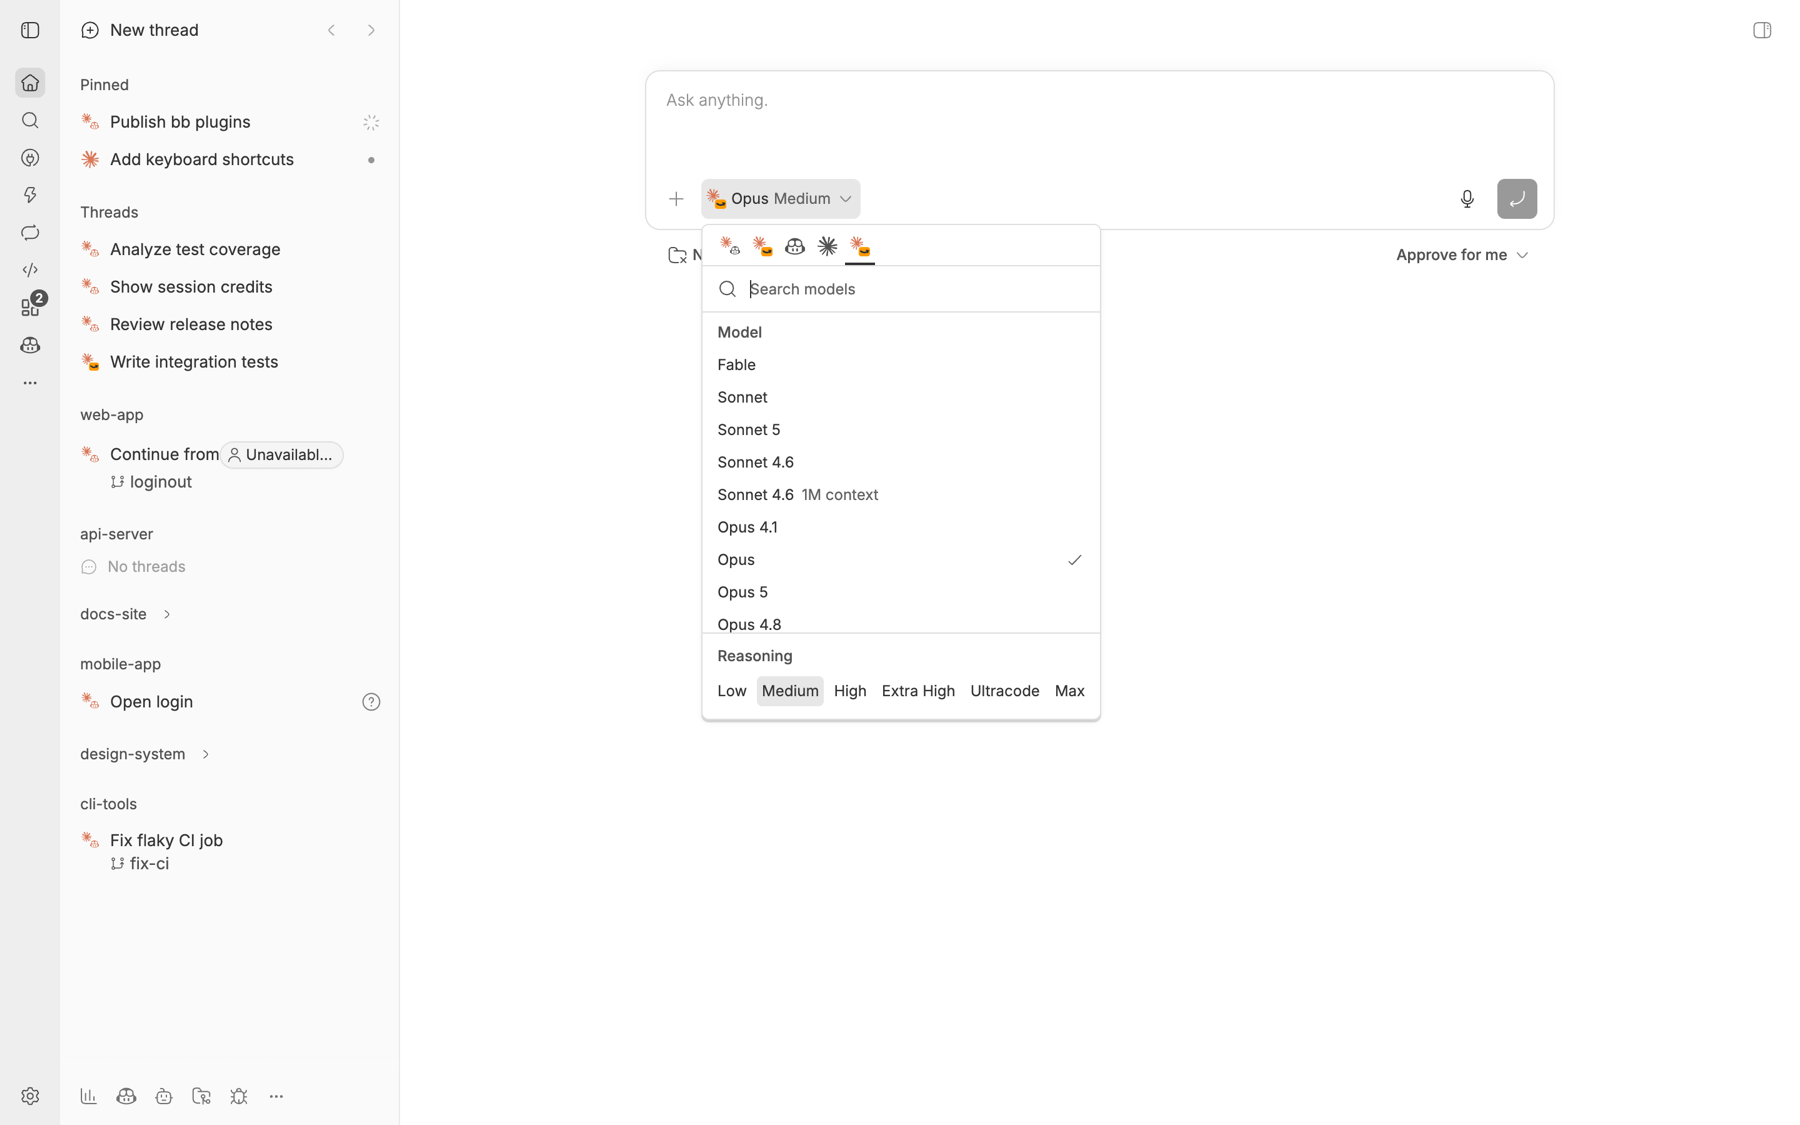
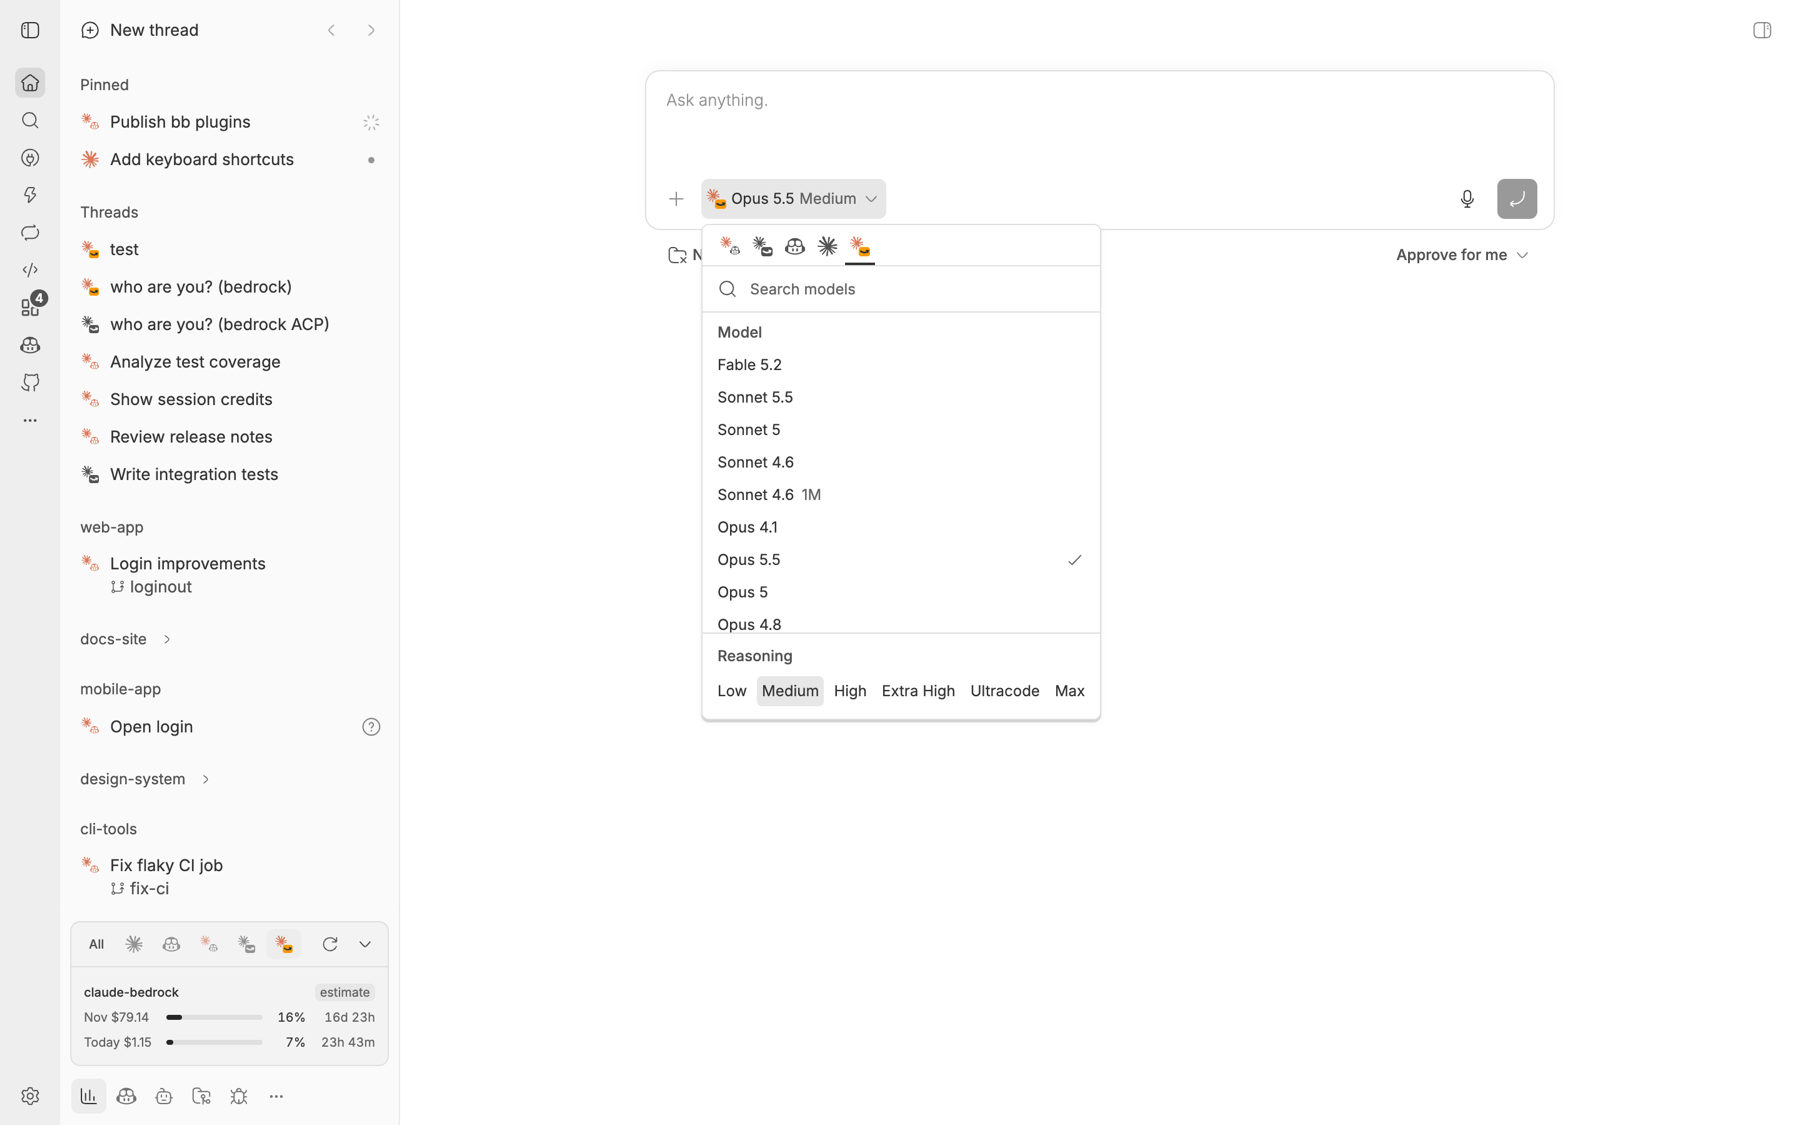
Name Bedrock models like Anthropic API ones (Sonnet 5.5, not Sonnet)
Upstream derives display names from ids such as claude-sonnet-5-5 only and
falls back to Claude Code's label for Bedrock ids, e.g. Sonnet or Fable.
src/model-names.ts parses Bedrock ids (region prefix, anthropic., date and
-vN:N suffixes, [1m]) in upstream's naming style, and the bridge renames
the models in its responses to model/list requests. README screenshot
updated, now with the usage entry.

diff --git a/host.ts b/host.ts
@@ -9,9 +9,31 @@
 // models (or whatever a machine-wide BB_CLAUDE_CODE_EXECUTABLE wrapper
 // configures). This bridge process serves only this provider, so it applies
 // the request's envVars to its own environment before upstream handles it.
+//
+// Upstream names models from Anthropic API ids only; for Bedrock ids it falls
+// back to labels like "Sonnet". The bridge renames them in its model/list
+// responses (src/model-names.ts).
 import { experimental_providerBridge as upstreamBridge } from "./vendor/provider-claude-code/src/host";
+import { nameBedrockModels } from "./src/model-names";
 
 export { default } from "./vendor/provider-claude-code/src/host";
+
+/** Ids of model/list requests whose responses are still to be written. */
+const pendingModelLists = new Set<string | number>();
+
+/** A response line to a pending model/list request, with Bedrock model names; other lines unchanged. */
+export function renameModelListResponse(line: string, pending: Set<string | number>): string {
+  if (pending.size === 0 || !line.startsWith("{") || !line.includes('"result"')) return line;
+  try {
+    const message = JSON.parse(line) as { id?: unknown; result?: unknown };
+    const id = message.id;
+    if ((typeof id !== "string" && typeof id !== "number") || !pending.has(id) || message.result === undefined) return line;
+    pending.delete(id);
+    return `${JSON.stringify({ ...message, result: nameBedrockModels(message.result) })}${line.endsWith("\n") ? "\n" : ""}`;
+  } catch {
+    return line;
+  }
+}
 
 /** The envVars of a model/list request line, or null. */
 export function modelListEnvVars(line: string): Record<string, string> | null {
@@ -33,11 +55,23 @@ export const experimental_providerBridge: typeof upstreamBridge = {
   start: (context) => {
     // Bedrock even before the first request carries the contributed env
     process.env.CLAUDE_CODE_USE_BEDROCK = "1";
+    // upstream writes each JSON-RPC message as one line through process.stdout.write
+    const write = process.stdout.write.bind(process.stdout) as (chunk: unknown, ...rest: unknown[]) => boolean;
+    process.stdout.write = ((chunk: unknown, ...rest: unknown[]) =>
+      write(typeof chunk === "string" ? renameModelListResponse(chunk, pendingModelLists) : chunk, ...rest)) as typeof process.stdout.write;
     upstreamBridge.start?.(context);
   },
   handleLine: (line) => {
     const envVars = modelListEnvVars(line);
-    if (envVars !== null) Object.assign(process.env, envVars);
+    if (envVars !== null) {
+      Object.assign(process.env, envVars);
+      try {
+        const id = (JSON.parse(line) as { id?: unknown }).id;
+        if (typeof id === "string" || typeof id === "number") pendingModelLists.add(id);
+      } catch {
+        // modelListEnvVars parsed it already
+      }
+    }
     upstreamBridge.handleLine(line);
   },
 };

diff --git a/src/model-names.ts b/src/model-names.ts
@@ -1,0 +1,34 @@
+// Display names for Bedrock model ids. Upstream names models from ids such as
+// "claude-sonnet-5-5" and otherwise falls back to Claude Code's own label,
+// which for Bedrock ids ("us.anthropic.claude-sonnet-5-5",
+// "us.anthropic.claude-haiku-4-5-20251001-v1:0") is often just "Sonnet" or
+// "Opus". This parses the Bedrock form and uses upstream's naming style
+// ("Sonnet 5.5", "Opus 4.6 (1M)").
+
+const BEDROCK_MODEL_ID =
+  /^(?:[a-z]+\.)?anthropic\.claude-([a-z]+)-(\d+)(?:-(\d{1,2}))?(?:-\d{8})?(?:-v\d+(?::\d+)?)?(\[1m\])?$/;
+
+export function bedrockModelDisplayName(model: string): string | null {
+  const match = BEDROCK_MODEL_ID.exec(model);
+  if (!match) return null;
+  const [, family = "", major, minor, oneMillionContext] = match;
+  const name = `${family.charAt(0).toUpperCase()}${family.slice(1)}`;
+  const version = minor === undefined ? major : `${major}.${minor}`;
+  return `${name} ${version}${oneMillionContext ? " (1M)" : ""}`;
+}
+
+type ListedModel = { model?: unknown; displayName?: unknown };
+
+/** A model/list result with Bedrock ids named; other entries unchanged. */
+export function nameBedrockModels<T>(result: T): T {
+  if (result === null || typeof result !== "object") return result;
+  const rename = (models: unknown) =>
+    Array.isArray(models)
+      ? models.map((entry: ListedModel) => {
+          const name = typeof entry?.model === "string" ? bedrockModelDisplayName(entry.model) : null;
+          return name === null ? entry : { ...entry, displayName: name };
+        })
+      : models;
+  const record = result as Record<string, unknown>;
+  return { ...record, models: rename(record.models), selectedOnlyModels: rename(record.selectedOnlyModels) } as T;
+}

diff --git a/test/model-names.test.ts b/test/model-names.test.ts
@@ -1,0 +1,36 @@
+import { describe, expect, it } from "vitest";
+import { bedrockModelDisplayName, nameBedrockModels } from "../src/model-names";
+
+describe("bedrockModelDisplayName", () => {
+  it.each([
+    ["us.anthropic.claude-fable-5-2", "Fable 5.2"],
+    ["us.anthropic.claude-sonnet-5-5", "Sonnet 5.5"],
+    ["us.anthropic.claude-sonnet-5", "Sonnet 5"],
+    ["us.anthropic.claude-sonnet-4-6[1m]", "Sonnet 4.6 (1M)"],
+    ["us.anthropic.claude-opus-4-1-20250805-v1:0", "Opus 4.1"],
+    ["us.anthropic.claude-opus-4-6-v1[1m]", "Opus 4.6 (1M)"],
+    ["us.anthropic.claude-haiku-4-5-20251001-v1:0", "Haiku 4.5"],
+    ["eu.anthropic.claude-opus-5-5", "Opus 5.5"],
+    ["global.anthropic.claude-sonnet-5-5", "Sonnet 5.5"],
+    ["anthropic.claude-opus-5-5", "Opus 5.5"],
+  ])("%s -> %s", (id, name) => {
+    expect(bedrockModelDisplayName(id)).toBe(name);
+  });
+
+  it("leaves other ids alone", () => {
+    expect(bedrockModelDisplayName("opus")).toBeNull();
+    expect(bedrockModelDisplayName("claude-opus-5-5")).toBeNull();
+    expect(bedrockModelDisplayName("arn:aws:bedrock:us-west-2:123:application-inference-profile/x")).toBeNull();
+  });
+
+  it("renames models and selected-only models in a model/list result", () => {
+    const result = {
+      models: [{ model: "us.anthropic.claude-sonnet-5-5", displayName: "Sonnet", isDefault: true }],
+      selectedOnlyModels: [{ model: "opus", displayName: "Opus alias" }],
+    };
+    expect(nameBedrockModels(result)).toEqual({
+      models: [{ model: "us.anthropic.claude-sonnet-5-5", displayName: "Sonnet 5.5", isDefault: true }],
+      selectedOnlyModels: [{ model: "opus", displayName: "Opus alias" }],
+    });
+  });
+});

diff --git a/test/declaration.test.ts b/test/declaration.test.ts
@@ -71,3 +71,18 @@ describe("modelListEnvVars", () => {
     expect(modelListEnvVars(JSON.stringify({ method: "model/list", params: {} }))).toBeNull();
   });
 });
+
+import { renameModelListResponse } from "../host";
+
+describe("renameModelListResponse", () => {
+  it("renames only responses to pending model/list requests", () => {
+    const pending = new Set<string | number>([7]);
+    const response = `${JSON.stringify({ jsonrpc: "2.0", id: 7, result: { models: [{ model: "us.anthropic.claude-fable-5-2", displayName: "Fable" }], selectedOnlyModels: [] } })}\n`;
+    const other = `${JSON.stringify({ jsonrpc: "2.0", id: 8, result: { models: [{ model: "us.anthropic.claude-fable-5-2", displayName: "Fable" }] } })}\n`;
+    expect(renameModelListResponse(other, pending)).toBe(other);
+    const renamed = renameModelListResponse(response, pending);
+    expect(JSON.parse(renamed).result.models[0].displayName).toBe("Fable 5.2");
+    expect(renamed.endsWith("\n")).toBe(true);
+    expect(pending.size).toBe(0);
+  });
+});

diff --git a/README.md b/README.md
@@ -12,9 +12,10 @@ meter. Only the backend differs.
 ## Screenshots
 
 **Claude Code (Bedrock)** in the model picker, with the Bedrock models Claude
-Code reports:
+Code reports, and its estimated spend in the Provider usage panel (bottom
+left):
 
-![Model picker for Claude Code (Bedrock) listing us.anthropic Bedrock models](docs/models.png)
+![Model picker for Claude Code (Bedrock) listing Fable 5.2, Sonnet 5.5, Opus 5.5 and other Bedrock models; the Provider usage panel shows this month and today against the budget](docs/models.png)
 
 The plugin settings: Bedrock API key, region, AWS profile, Claude Code
 executable, monthly budget and price factor, then bb's usual Claude Code
@@ -104,6 +105,10 @@ This plugin's own code is small and sits outside `vendor/`:
   contributed environment with each model list request, but upstream's model
   probe uses the bridge process's environment only; the bridge applies the
   request's environment first, so the picker lists the Bedrock models.
+  Upstream also names models from Anthropic API ids only; for Bedrock ids
+  (`us.anthropic.claude-sonnet-5-5`, `…-v1:0`) it falls back to labels like
+  "Sonnet", so the bridge renames them in its model list responses
+  (`src/model-names.ts`).
 - `app.tsx` draws the provider icon: the Claude mark with an AWS badge, in
   color. (The Claude Bedrock ACP provider plugin uses the same mark in
   monochrome, so the two are easy to tell apart.)
